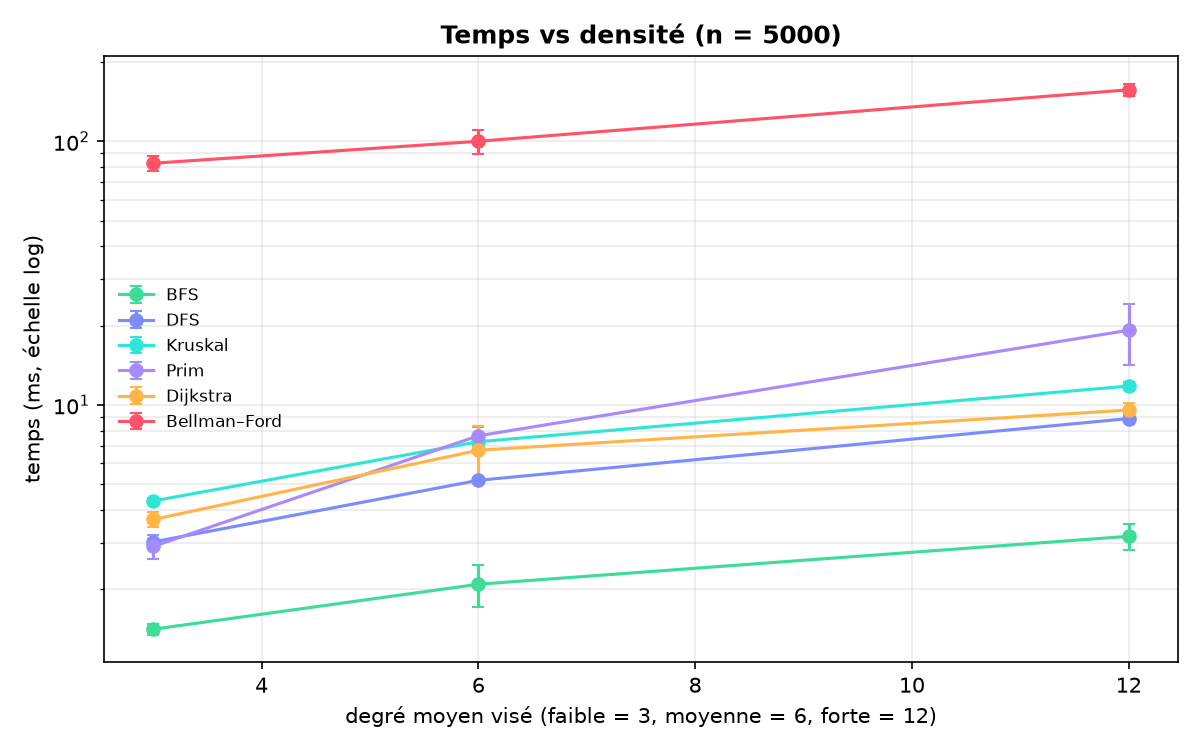
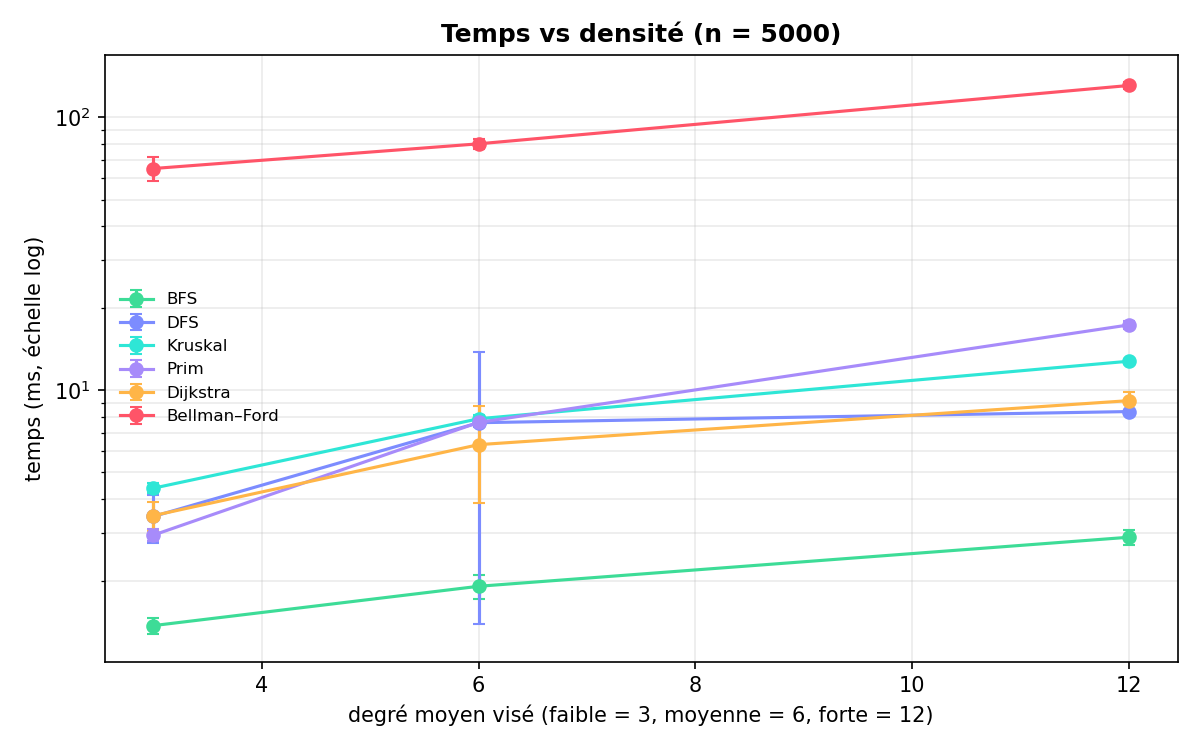
jsp

diff --git a/ui/src/pages/Lab.tsx b/ui/src/pages/Lab.tsx
@@ -297,7 +297,8 @@ export default function Lab() {
 
   const majCle = (x: string | null | undefined) => x ?? ''
   const graine = (d: string, l: string) => <button key={d} className={s.dataset === d ? 'on' : ''} onClick={() => s.setDataset(d)}>{l}</button>
-  const etiquetteVal = algo === 'bfs' ? 'niveau' : algo === 'dfs' ? 'profondeur' : 'distance'
+  // pendant l'exécution ce sont des estimations (elles peuvent encore baisser, voire valoir −∞ à la fin)
+  const etiquetteVal = algo === 'bfs' ? 'niveau' : algo === 'dfs' ? 'profondeur' : fin ? 'distance' : 'estimation'
 
   return (
     <div className="grid gap-5">

diff --git a/novapolis/cli.py b/novapolis/cli.py
@@ -269,10 +269,14 @@ def mst(data: str = DATA, algo: str = typer.Option("both", help="kruskal | prim 
         console.print(f"Plusieurs ACM : remplacer {ech['retirer']['label']} par {ech['ajouter']['label']} (même coût {f(ech['cout'], 0)} k€) donne un autre arbre de même coût.")
     else:
         console.print("ACM unique (aucun échange de même coût).")
+    ref = r.get("kruskal") or r.get("prim")
+    aretes = ref["aretes"]
+    liste = ", ".join(f"{a['label']} ({f(a['cost'], 0)})" for a in aretes[:30])
+    suite = f" … (+{len(aretes) - 30} ; liste complète avec --export fichier.csv)" if len(aretes) > 30 else ""
+    console.print(f"Tronçons retenus ({len(aretes)}, coût k€) : {liste}{suite}")
     if r["non_raccordes"]:
         console.print(f"[yellow]Composantes non raccordées[/] : {'; '.join(', '.join(c[:8]) for c in r['non_raccordes'][:10])}")
-    ref = r.get("kruskal") or r.get("prim")
-    exporter(export, r, ref["aretes"])
+    exporter(export, r, aretes)
 
 
 @app.command("mst-panne")

diff --git a/README.md b/README.md
@@ -193,9 +193,9 @@ Bellman–Ford = Floyd–Warshall), MST (Kruskal = Prim = networkx, forêts, ég
 
 `make bench && make figures` (≈ 20 s) : mêmes graphes pour tous les algorithmes, génération exclue du chronométrage,
 5 répétitions, graine 42. Figures : log-log temps vs n (mesure + c·f(V,E) ajustée), temps vs densité,
-Floyd–Warshall (n ≤ 400) et rapport mesure/théorie. Pentes mesurées sur la densité moyenne : BFS/DFS ≈ 1,0 ;
-Kruskal/Prim/Dijkstra ≈ 1,0–1,1 (théorie ≈ 1,1) ; Floyd–Warshall ≈ 2,9 (théorie 3) ; Bellman–Ford ≈ 1,6 au lieu de 2 car
-l'arrêt anticipé stoppe après ≈ diamètre passes (colonne `passes` du CSV).
+Floyd–Warshall (n ≤ 400) et rapport mesure/théorie. Pentes mesurées sur la densité moyenne (`reports/bench.csv` livré) :
+BFS ≈ 1,0 et DFS ≈ 1,15 (théorie 1) ; Kruskal/Prim/Dijkstra ≈ 1,0–1,1 (théorie ≈ 1,1) ; Floyd–Warshall ≈ 2,9 (théorie 3) ;
+Bellman–Ford ≈ 1,5 au lieu de 2 car l'arrêt anticipé stoppe après ≈ diamètre passes (colonne `passes` du CSV).
 
 ## Limites
 
